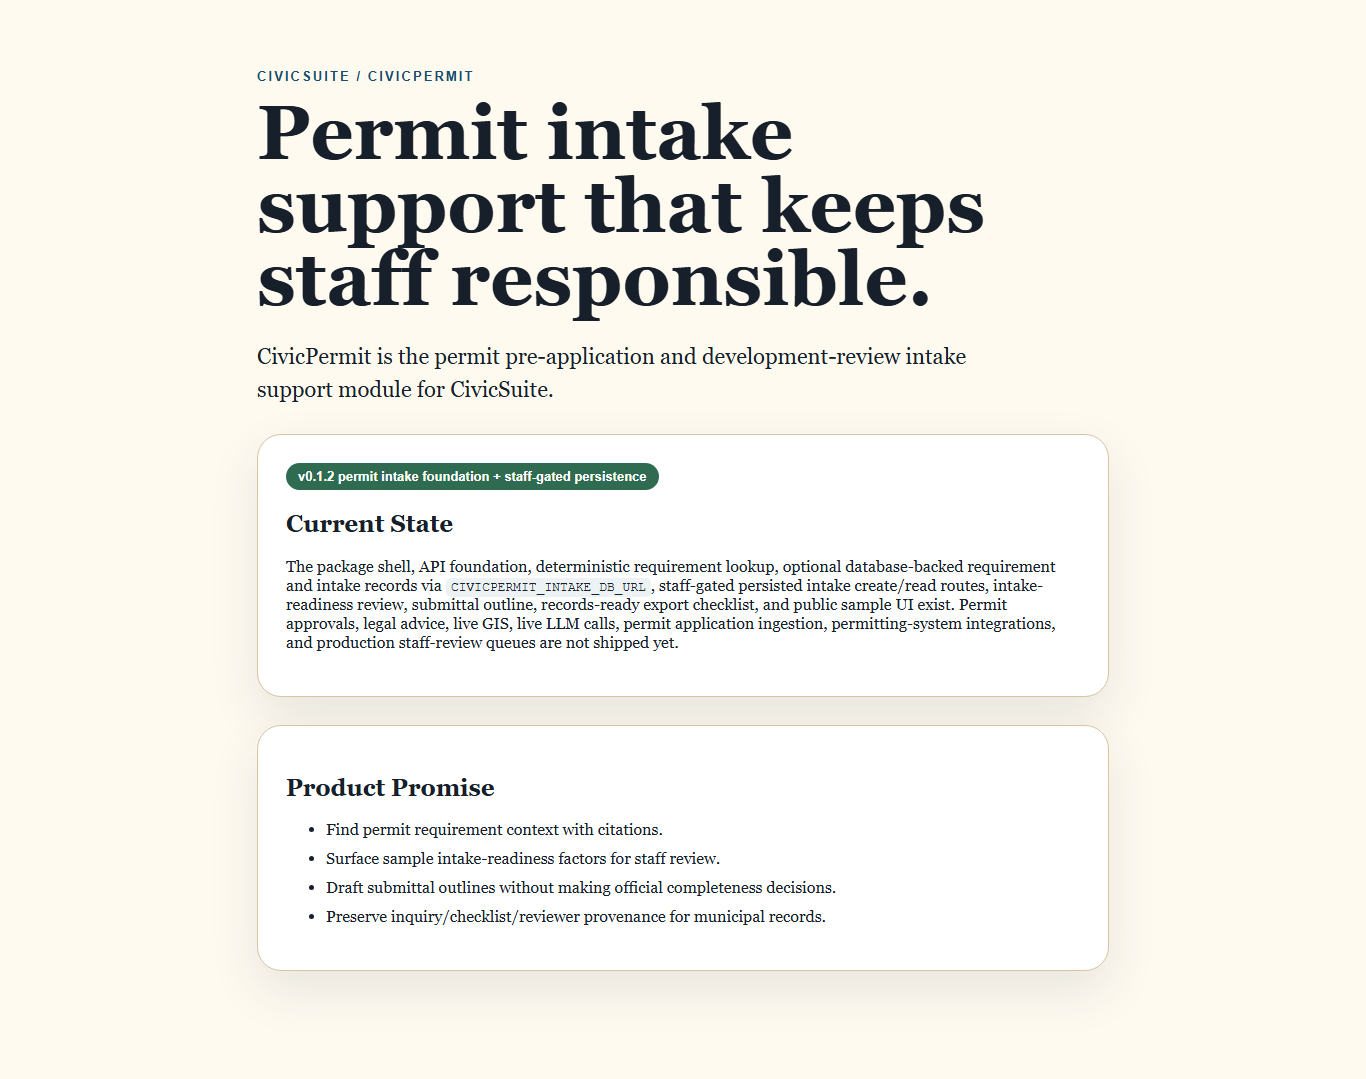
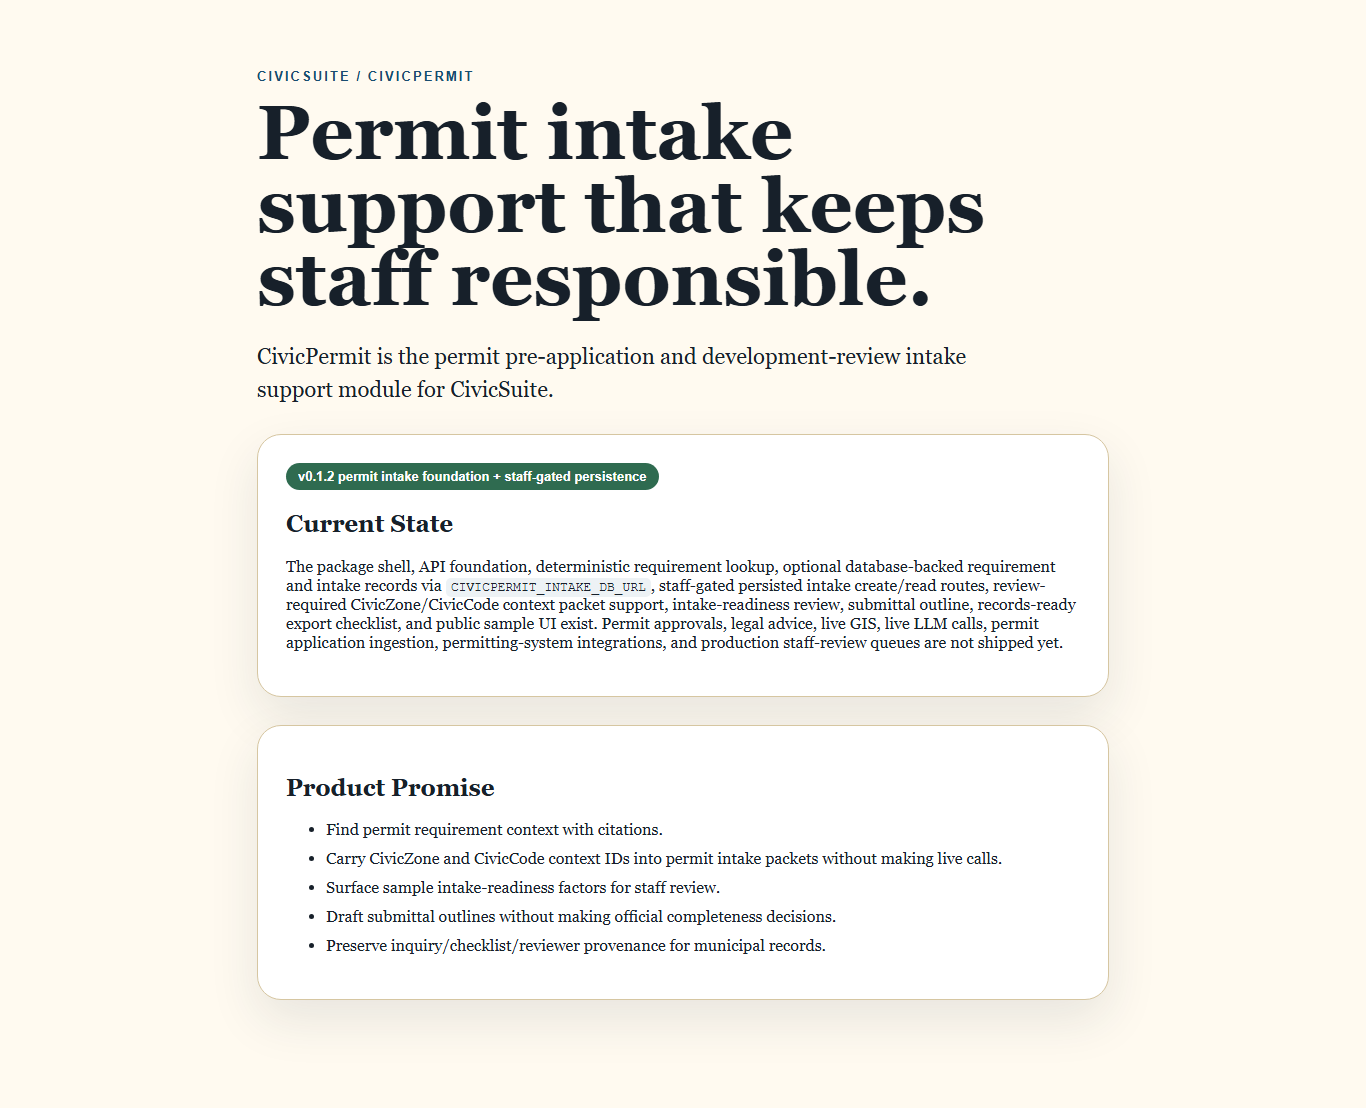
Add CivicPermit development review context contract

Changed region(s): [[0.1845, 0.3976, 0.7994, 0.6728], [0.1845, 0.0612, 0.7379, 0.367], [0.1845, 0.7034, 0.7379, 0.8563]]

diff --git a/docs/index.html b/docs/index.html
@@ -31,12 +31,13 @@
   <section class="panel">
     <span class="badge">v0.1.2 permit intake foundation + staff-gated persistence</span>
     <h2>Current State</h2>
-    <p>The package shell, API foundation, deterministic requirement lookup, optional database-backed requirement and intake records via <code>CIVICPERMIT_INTAKE_DB_URL</code>, staff-gated persisted intake create/read routes, intake-readiness review, submittal outline, records-ready export checklist, and public sample UI exist. Permit approvals, legal advice, live GIS, live LLM calls, permit application ingestion, permitting-system integrations, and production staff-review queues are not shipped yet.</p>
+    <p>The package shell, API foundation, deterministic requirement lookup, optional database-backed requirement and intake records via <code>CIVICPERMIT_INTAKE_DB_URL</code>, staff-gated persisted intake create/read routes, review-required CivicZone/CivicCode context packet support, intake-readiness review, submittal outline, records-ready export checklist, and public sample UI exist. Permit approvals, legal advice, live GIS, live LLM calls, permit application ingestion, permitting-system integrations, and production staff-review queues are not shipped yet.</p>
   </section>
   <section class="panel">
     <h2>Product Promise</h2>
     <ul>
       <li>Find permit requirement context with citations.</li>
+      <li>Carry CivicZone and CivicCode context IDs into permit intake packets without making live calls.</li>
       <li>Surface sample intake-readiness factors for staff review.</li>
       <li>Draft submittal outlines without making official completeness decisions.</li>
       <li>Preserve inquiry/checklist/reviewer provenance for municipal records.</li>

diff --git a/civicpermit/main.py b/civicpermit/main.py
@@ -38,6 +38,16 @@ class IntakeReviewRequest(BaseModel):
     project_type: str = Field(min_length=1, max_length=255)
 
 
+class DevelopmentReviewContextRequest(BaseModel):
+    project_type: str = Field(min_length=1, max_length=255)
+    proposal: str = Field(min_length=1, max_length=5000)
+    location_context: str = Field(default="", max_length=500)
+    zoning_context_id: str | None = Field(default=None, max_length=160)
+    code_context_id: str | None = Field(default=None, max_length=160)
+    zoning_context_summary: str | None = Field(default=None, max_length=1000)
+    code_context_summary: str | None = Field(default=None, max_length=1000)
+
+
 class SubmittalOutlineRequest(BaseModel):
     project_name: str = Field(min_length=1, max_length=500)
     proposal: str = Field(min_length=1, max_length=5000)
@@ -140,6 +150,39 @@ def intake_review(
     return payload
 
 
+@app.post("/api/v1/civicpermit/context/development-review")
+def development_review_context(request: DevelopmentReviewContextRequest) -> dict[str, object]:
+    requirement, source = _lookup_permit_requirement_with_source(
+        project_type=request.project_type,
+        location_context=request.location_context,
+    )
+    readiness = review_intake_readiness(
+        proposal=request.proposal,
+        project_type=request.project_type,
+    )
+    citations = [requirement.citation]
+    if request.zoning_context_id:
+        citations.append(f"CivicZone context: {request.zoning_context_id}")
+    if request.code_context_id:
+        citations.append(f"CivicCode context: {request.code_context_id}")
+    return {
+        "requirement_id": requirement.requirement_id,
+        "project_type": requirement.project_type,
+        "required_materials": list(requirement.required_materials),
+        "zoning_context_id": request.zoning_context_id,
+        "code_context_id": request.code_context_id,
+        "citations": citations,
+        "missing_or_unclear": list(readiness.missing_or_unclear),
+        "review_required": True,
+        "source": source,
+        "boundary": (
+            "CivicPermit provides pre-application intake context only; it is not a "
+            "permit approval, official completeness determination, fee calculation, "
+            "inspection result, or system-of-record action."
+        ),
+    }
+
+
 @app.get("/api/v1/civicpermit/intake/{intake_id}")
 def get_intake_review(
     intake_id: str,
@@ -225,6 +268,18 @@ def _lookup_permit_requirement(*, project_type: str, location_context: str = "")
     if _intake_database_url() is None:
         return lookup_permit_requirement(project_type=project_type, location_context=location_context)
     return _get_intake_repository().lookup_requirement(
+        project_type=project_type,
+        location_context=location_context,
+    )
+
+
+def _lookup_permit_requirement_with_source(*, project_type: str, location_context: str = ""):
+    if _intake_database_url() is None:
+        return (
+            lookup_permit_requirement(project_type=project_type, location_context=location_context),
+            "sample",
+        )
+    return _get_intake_repository().lookup_requirement_with_source(
         project_type=project_type,
         location_context=location_context,
     )

diff --git a/tests/test_production_depth_intake_persistence.py b/tests/test_production_depth_intake_persistence.py
@@ -3,6 +3,7 @@ from fastapi.testclient import TestClient
 import civicpermit.main as main_module
 from civicpermit.main import app
 from civicpermit.persistence import PermitIntakeRepository
+from civicpermit.requirement_lookup import PermitRequirement
 
 
 client = TestClient(app)
@@ -90,6 +91,55 @@ def test_persisted_intake_requires_staff_role(monkeypatch, tmp_path) -> None:
     assert get_response.status_code == 403
     assert "X-CivicPermit-Role: staff" in create_response.json()["detail"]["fix"]
     db_path.unlink(missing_ok=True)
+
+
+def test_development_review_context_uses_configured_requirement_database(monkeypatch, tmp_path) -> None:
+    db_path = tmp_path / "context-requirements.db"
+    db_url = f"sqlite:///{db_path}"
+    repository = PermitIntakeRepository(db_url=db_url, seed_defaults=False)
+    repository.seed_requirements(
+        [
+            (
+                "solar canopy",
+                PermitRequirement(
+                    requirement_id="permit-solar-canopy-1.0",
+                    project_type="solar-canopy",
+                    title="Solar canopy intake checklist",
+                    citation="Building Intake Guide, Solar Canopy Checklist",
+                    required_materials=(
+                        "Structural drawings.",
+                        "Electrical one-line diagram.",
+                    ),
+                    staff_note="Route structural and electrical review before formal intake.",
+                ),
+            )
+        ]
+    )
+    repository.engine.dispose()
+    monkeypatch.setenv("CIVICPERMIT_INTAKE_DB_URL", db_url)
+
+    try:
+        response = client.post(
+            "/api/v1/civicpermit/context/development-review",
+            json={
+                "project_type": "solar canopy",
+                "proposal": "Solar canopy at 100 Main with structural drawings.",
+                "zoning_context_id": "zone-2",
+                "code_context_id": "code-7",
+            },
+        )
+    finally:
+        main_module._dispose_intake_repository()
+        main_module._intake_db_url = None
+
+    assert response.status_code == 200
+    payload = response.json()
+    assert payload["requirement_id"] == "permit-solar-canopy-1.0"
+    assert payload["source"] == "configured"
+    assert payload["review_required"] is True
+    assert payload["zoning_context_id"] == "zone-2"
+    assert payload["code_context_id"] == "code-7"
+    db_path.unlink()
 
 
 def test_intake_lookup_requires_configured_database() -> None:

diff --git a/tests/test_permit_foundation.py b/tests/test_permit_foundation.py
@@ -99,6 +99,33 @@ def test_intake_and_submittal_apis() -> None:
     assert outline.json()["review_required"] is True
 
 
+def test_development_review_context_returns_review_required_contract() -> None:
+    response = client.post(
+        "/api/v1/civicpermit/context/development-review",
+        json={
+            "project_type": "adu",
+            "proposal": "ADU at 100 Main with site plan and contact email.",
+            "location_context": "R-2 parcel",
+            "zoning_context_id": "zone-ledger-1",
+            "code_context_id": "code-section-1",
+        },
+    )
+
+    assert response.status_code == 200
+    payload = response.json()
+    assert payload["requirement_id"] == "permit-adu-1.0"
+    assert payload["required_materials"]
+    assert payload["zoning_context_id"] == "zone-ledger-1"
+    assert payload["code_context_id"] == "code-section-1"
+    assert "Sample Development Review Manual, ADU Intake Checklist" in payload["citations"]
+    assert "CivicZone context: zone-ledger-1" in payload["citations"]
+    assert "CivicCode context: code-section-1" in payload["citations"]
+    assert payload["review_required"] is True
+    assert payload["source"] == "sample"
+    assert "not a permit approval" in payload["boundary"]
+    assert "system-of-record action" in payload["boundary"]
+
+
 def test_public_ui_route_is_accessible_and_honest() -> None:
     response = client.get("/civicpermit")
     assert response.status_code == 200

diff --git a/civicpermit/persistence.py b/civicpermit/persistence.py
@@ -99,6 +99,15 @@ class PermitIntakeRepository:
                 )
 
     def lookup_requirement(self, *, project_type: str, location_context: str = "") -> PermitRequirement:
+        requirement, _source = self.lookup_requirement_with_source(
+            project_type=project_type,
+            location_context=location_context,
+        )
+        return requirement
+
+    def lookup_requirement_with_source(
+        self, *, project_type: str, location_context: str = ""
+    ) -> tuple[PermitRequirement, str]:
         normalized = project_type.strip().casefold()
         with self.engine.begin() as connection:
             row = connection.execute(
@@ -110,8 +119,8 @@ class PermitIntakeRepository:
                 )
             ).mappings().first()
         if row is not None:
-            return _row_to_requirement(row)
-        return lookup_permit_requirement(project_type=project_type, location_context=location_context)
+            return _row_to_requirement(row), "configured"
+        return lookup_permit_requirement(project_type=project_type, location_context=location_context), "sample"
 
     def create_intake_review(self, *, proposal: str, project_type: str) -> StoredIntakeReview:
         review = review_intake_readiness(proposal=proposal, project_type=project_type)

diff --git a/README.md b/README.md
@@ -2,11 +2,12 @@
 
 CivicPermit is the CivicSuite module for permit pre-application and development-review intake support.
 
-Current state: **v0.1.2 permit intake foundation release plus staff-gated intake persistence and CivicCore v1 alignment**. This repo ships a FastAPI package aligned to `civiccore==1.0.0`, health/root endpoints, documentation gates, deterministic sample permit requirement lookup, optional database-backed requirement and intake records via `CIVICPERMIT_INTAKE_DB_URL`, intake-readiness review, submittal outline support, records-ready export checklist, and accessible public sample UI at `/civicpermit`. It does **not** ship permit approvals, official completeness determinations, fee calculations, inspections, legal advice, live GIS, live LLM calls, permit application ingestion, permitting-system integrations, or production staff-review queues.
+Current state: **v0.1.2 permit intake foundation release plus staff-gated intake persistence, development-review context contract, and CivicCore v1 alignment**. This repo ships a FastAPI package aligned to `civiccore==1.0.0`, health/root endpoints, documentation gates, deterministic sample permit requirement lookup, optional database-backed requirement and intake records via `CIVICPERMIT_INTAKE_DB_URL`, review-required CivicZone/CivicCode context packet support, intake-readiness review, submittal outline support, records-ready export checklist, and accessible public sample UI at `/civicpermit`. It does **not** ship permit approvals, official completeness determinations, fee calculations, inspections, legal advice, live GIS, live LLM calls, permit application ingestion, permitting-system integrations, or production staff-review queues.
 
 ## What CivicPermit Does
 
 - Looks up sample permit requirement checklists for common applicant scenarios.
+- Returns review-required development-review context packets that can carry CivicZone and CivicCode context IDs without calling those systems live.
 - Flags missing or unclear intake materials while keeping permit-counter staff responsible for official completeness review.
 - Drafts a submittal outline that requires staff review.
 - Builds records-ready export checklists that preserve inquiry, checklist, reviewer, and generated-output provenance.
@@ -29,6 +30,7 @@ bash scripts/verify-release.sh
 - `GET /health` returns package and CivicCore version information.
 - `GET /civicpermit` returns the accessible public sample UI.
 - `POST /api/v1/civicpermit/requirements/lookup` returns a sample permit requirement checklist.
+- `POST /api/v1/civicpermit/context/development-review` returns review-required permit intake context with optional CivicZone/CivicCode context IDs.
 - `POST /api/v1/civicpermit/intake/review` returns sample intake-readiness factors; persisted records require `X-CivicPermit-Role: staff` when `CIVICPERMIT_INTAKE_DB_URL` is configured.
 - `GET /api/v1/civicpermit/intake/{intake_id}` retrieves persisted intake records when `CIVICPERMIT_INTAKE_DB_URL` is configured and `X-CivicPermit-Role: staff` is present.
 - `POST /api/v1/civicpermit/submittal/outline` returns a reviewed-required submittal outline.

diff --git a/USER-MANUAL.md b/USER-MANUAL.md
@@ -4,7 +4,7 @@
 
 CivicPermit helps cities give applicants clearer pre-application guidance before a formal permit submittal. It can show sample requirement context, highlight missing or unclear intake materials for staff review, and produce records-ready permit-intake exports.
 
-Current state: `0.1.2` permit intake foundation release plus staff-gated intake persistence and CivicCore v1 alignment. The module includes deterministic sample checks, optional database-backed requirement and intake records, `civiccore==1.0.0` alignment, staff-only persisted intake create/read routes, and a public sample UI at `/civicpermit`. It does not provide legal advice, permit approvals, official completeness determinations, fee calculations, inspections, live GIS, live LLM calls, permit application ingestion, permitting-system integrations, or final staff approval.
+Current state: `0.1.2` permit intake foundation release plus staff-gated intake persistence, development-review context contract, and CivicCore v1 alignment. The module includes deterministic sample checks, optional database-backed requirement and intake records, review-required CivicZone/CivicCode context packet support, `civiccore==1.0.0` alignment, staff-only persisted intake create/read routes, and a public sample UI at `/civicpermit`. It does not provide legal advice, permit approvals, official completeness determinations, fee calculations, inspections, live GIS, live LLM calls, permit application ingestion, permitting-system integrations, or final staff approval.
 
 ## For IT And Technical Staff
 
@@ -14,6 +14,7 @@ CivicPermit is a FastAPI Python package pinned to `civiccore==1.0.0`. The curren
 - `GET /health`
 - `GET /civicpermit`
 - `POST /api/v1/civicpermit/requirements/lookup`
+- `POST /api/v1/civicpermit/context/development-review`
 - `POST /api/v1/civicpermit/intake/review`; persisted records require `X-CivicPermit-Role: staff` when `CIVICPERMIT_INTAKE_DB_URL` is configured
 - `GET /api/v1/civicpermit/intake/{intake_id}` when `CIVICPERMIT_INTAKE_DB_URL` is configured and `X-CivicPermit-Role: staff` is present
 - `POST /api/v1/civicpermit/submittal/outline`
@@ -40,4 +41,4 @@ flowchart LR
   CivicPermit -. released-context .-> CivicCode["CivicCode v0.22.1"]
 ```
 
-CivicPermit depends on CivicCore. CivicCore does not depend on CivicPermit. CivicPermit v0.1.2 uses deterministic sample requirement data with staff-gated persistence; local permit-type configuration and production cross-module runtime consumption are future work.
+CivicPermit depends on CivicCore. CivicCore does not depend on CivicPermit. CivicPermit v0.1.2 uses deterministic sample requirement data with staff-gated persistence and a review-required context packet for released CivicZone/CivicCode references; local permit-type configuration and production cross-module runtime consumption are future work.

diff --git a/docs/browser-qa-civicpermit-v0.1.2-intake-gates-summary.md b/docs/browser-qa-civicpermit-v0.1.2-intake-gates-summary.md
@@ -6,11 +6,11 @@ Scope:
 
 - `docs/index.html`
 - `/civicpermit` public UI generated by `civicpermit.public_ui.render_public_lookup_page()`
-- CivicPermit v0.1.2 staff-gated persistence copy and public UI no-op/editable-control removal
+- CivicPermit v0.1.2 staff-gated persistence, development-review context copy, and public UI no-op/editable-control removal
 
 | Surface | Viewport | Expected Copy | No Overflow | Console/Page Errors | Controls | Result |
 |---|---:|---|---:|---:|---:|---|
-| `docs/index.html` | 1366x900 | v0.1.2 badge; staff-gated persisted intake copy | Yes | 0 / 0 | 0 buttons, 0 textareas | Pass |
+| `docs/index.html` | 1366x900 | v0.1.2 badge; staff-gated persisted intake copy; CivicZone/CivicCode context packet copy | Yes | 0 / 0 | 0 buttons, 0 textareas | Pass |
 | `docs/index.html` | 390x844 | v0.1.2 badge; permit-approval boundary | Yes | 0 / 0 | 0 buttons, 0 textareas | Pass |
 | `/civicpermit` | 1366x900 | v0.1.2 badge; static sample proposal; no permit approval | Yes | 0 / 0 | 0 buttons, 0 textareas | Pass |
 | `/civicpermit` | 390x844 | v0.1.2 badge; static sample proposal; no permit approval | Yes | 0 / 0 | 0 buttons, 0 textareas | Pass |

diff --git a/docs/RECONCILIATION.md b/docs/RECONCILIATION.md
@@ -4,5 +4,5 @@
 |---|---|
 | Unified spec CivicPermit catalog entry | Pre-application and intake copilot behavior represented through deterministic permit requirement lookup, intake-readiness review, submittal outline, and records-ready export helpers. |
 | Suite non-negotiables | Docs, tests, browser QA, Apache 2.0 code license, CC BY 4.0 docs license, and CivicCore pin included. |
-| CivicCode/CivicZone dependency reality | v0.1.2 remains deterministic sample context only; production cross-module runtime consumption remains future work. |
+| CivicCode/CivicZone dependency reality | v0.1.2 can carry released CivicZone/CivicCode context IDs into review-required permit context packets, but production cross-module runtime consumption remains future work. |
 | Shipped/planned honesty | Permit approvals, official completeness determinations, fee calculations, inspections, legal advice, live GIS, live LLM calls, permit application ingestion, permitting integrations, and staff-review queues remain explicitly unshipped. |

diff --git a/docs/IMPLEMENTATION_PLAN.md b/docs/IMPLEMENTATION_PLAN.md
@@ -1,3 +1,3 @@
 # CivicPermit Implementation Plan
 
-CivicPermit v0.1.2 establishes a deterministic foundation: runtime shell, sample permit requirement lookup, staff-gated intake persistence, intake-readiness review, submittal outline, records-ready export checklist, public sample UI, and CivicCore v1 alignment. Later releases add local permit-type configuration, CivicZone/CivicCode runtime consumption, staff review queues, and production data governance.
+CivicPermit v0.1.2 establishes a deterministic foundation: runtime shell, sample permit requirement lookup, staff-gated intake persistence, review-required development-review context packets for CivicZone/CivicCode references, intake-readiness review, submittal outline, records-ready export checklist, public sample UI, and CivicCore v1 alignment. Later releases add local permit-type configuration, live CivicZone/CivicCode runtime consumption, staff review queues, and production data governance.

diff --git a/CHANGELOG.md b/CHANGELOG.md
@@ -12,6 +12,7 @@ The format follows Keep a Changelog, and this project follows Semantic Versionin
 
 - Production-depth intake persistence slice with `CIVICPERMIT_INTAKE_DB_URL`, persisted permit requirement records, persisted intake review records, and retrieval by `intake_id`.
 - Staff-role gate for persisted intake create/read routes when intake persistence is configured.
+- Development-review context contract that returns review-required permit intake context with optional CivicZone and CivicCode context IDs.
 
 ### Changed
 
